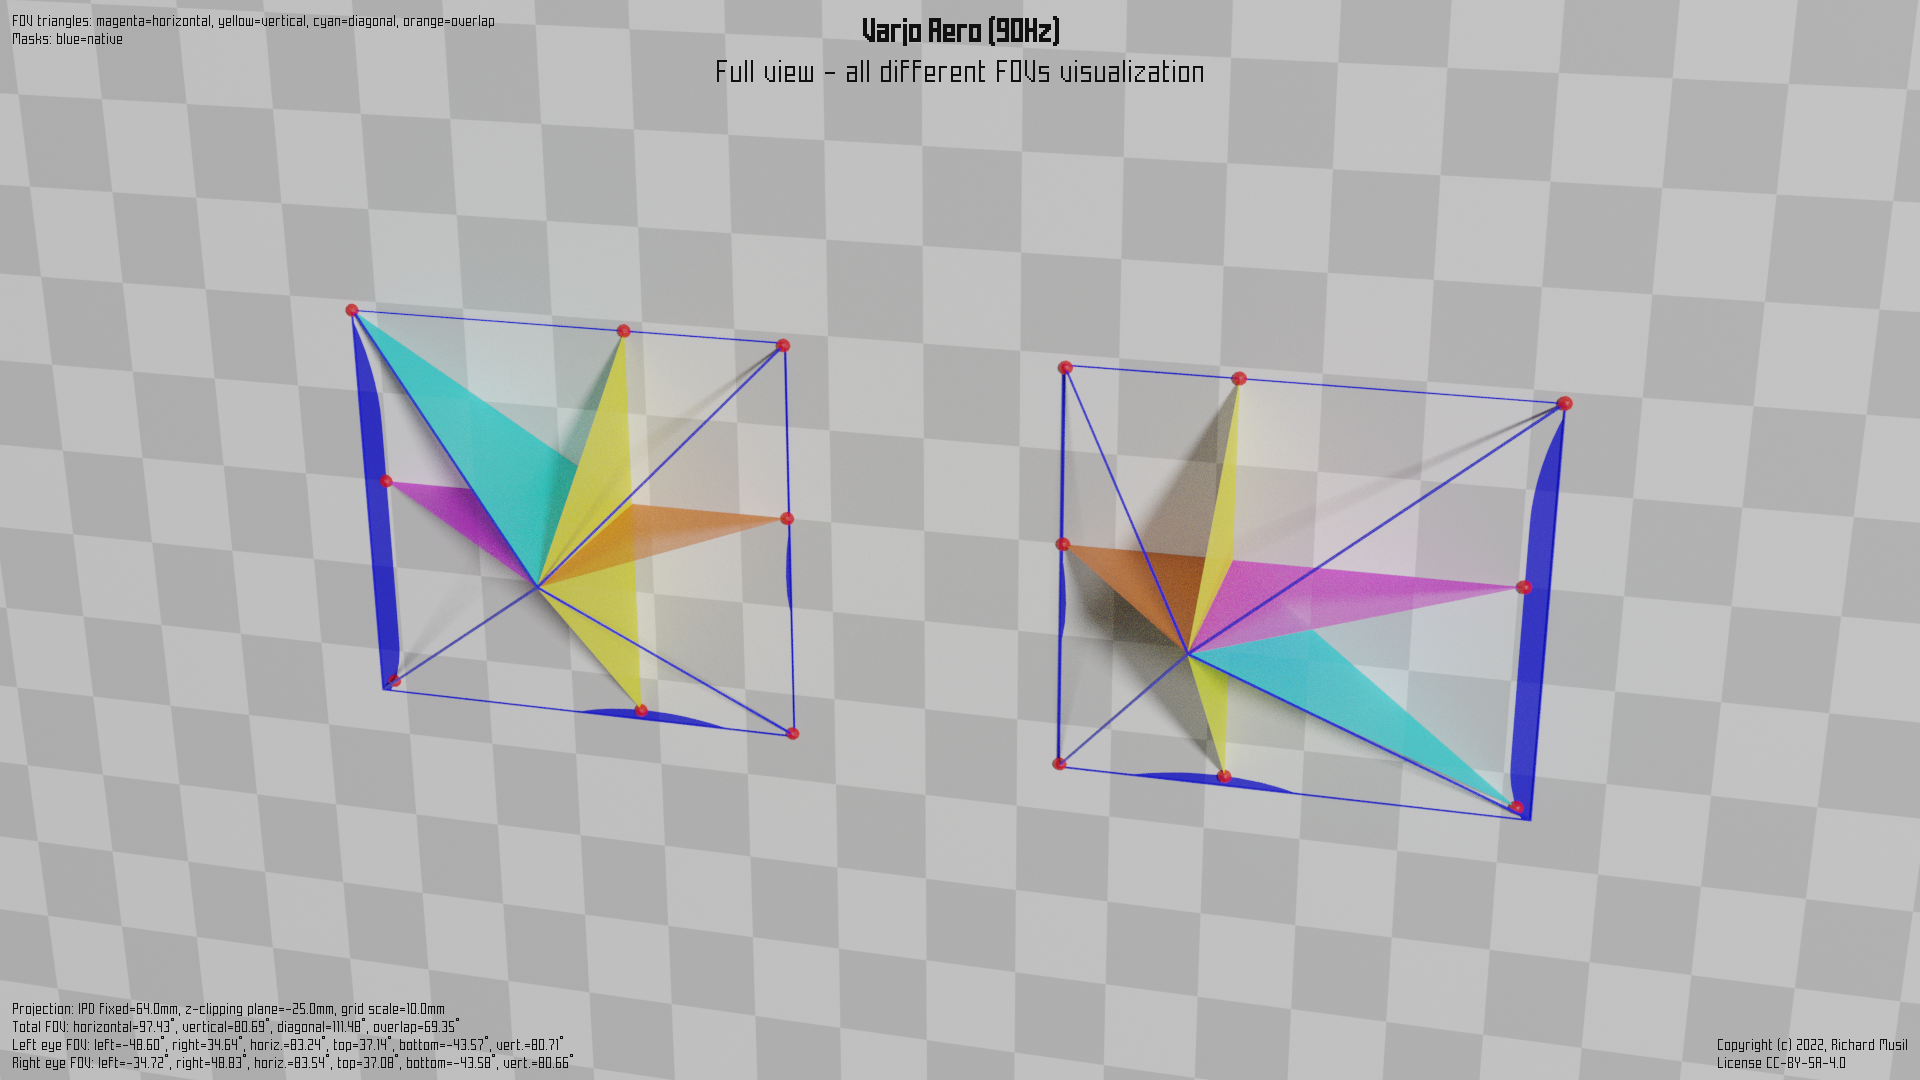
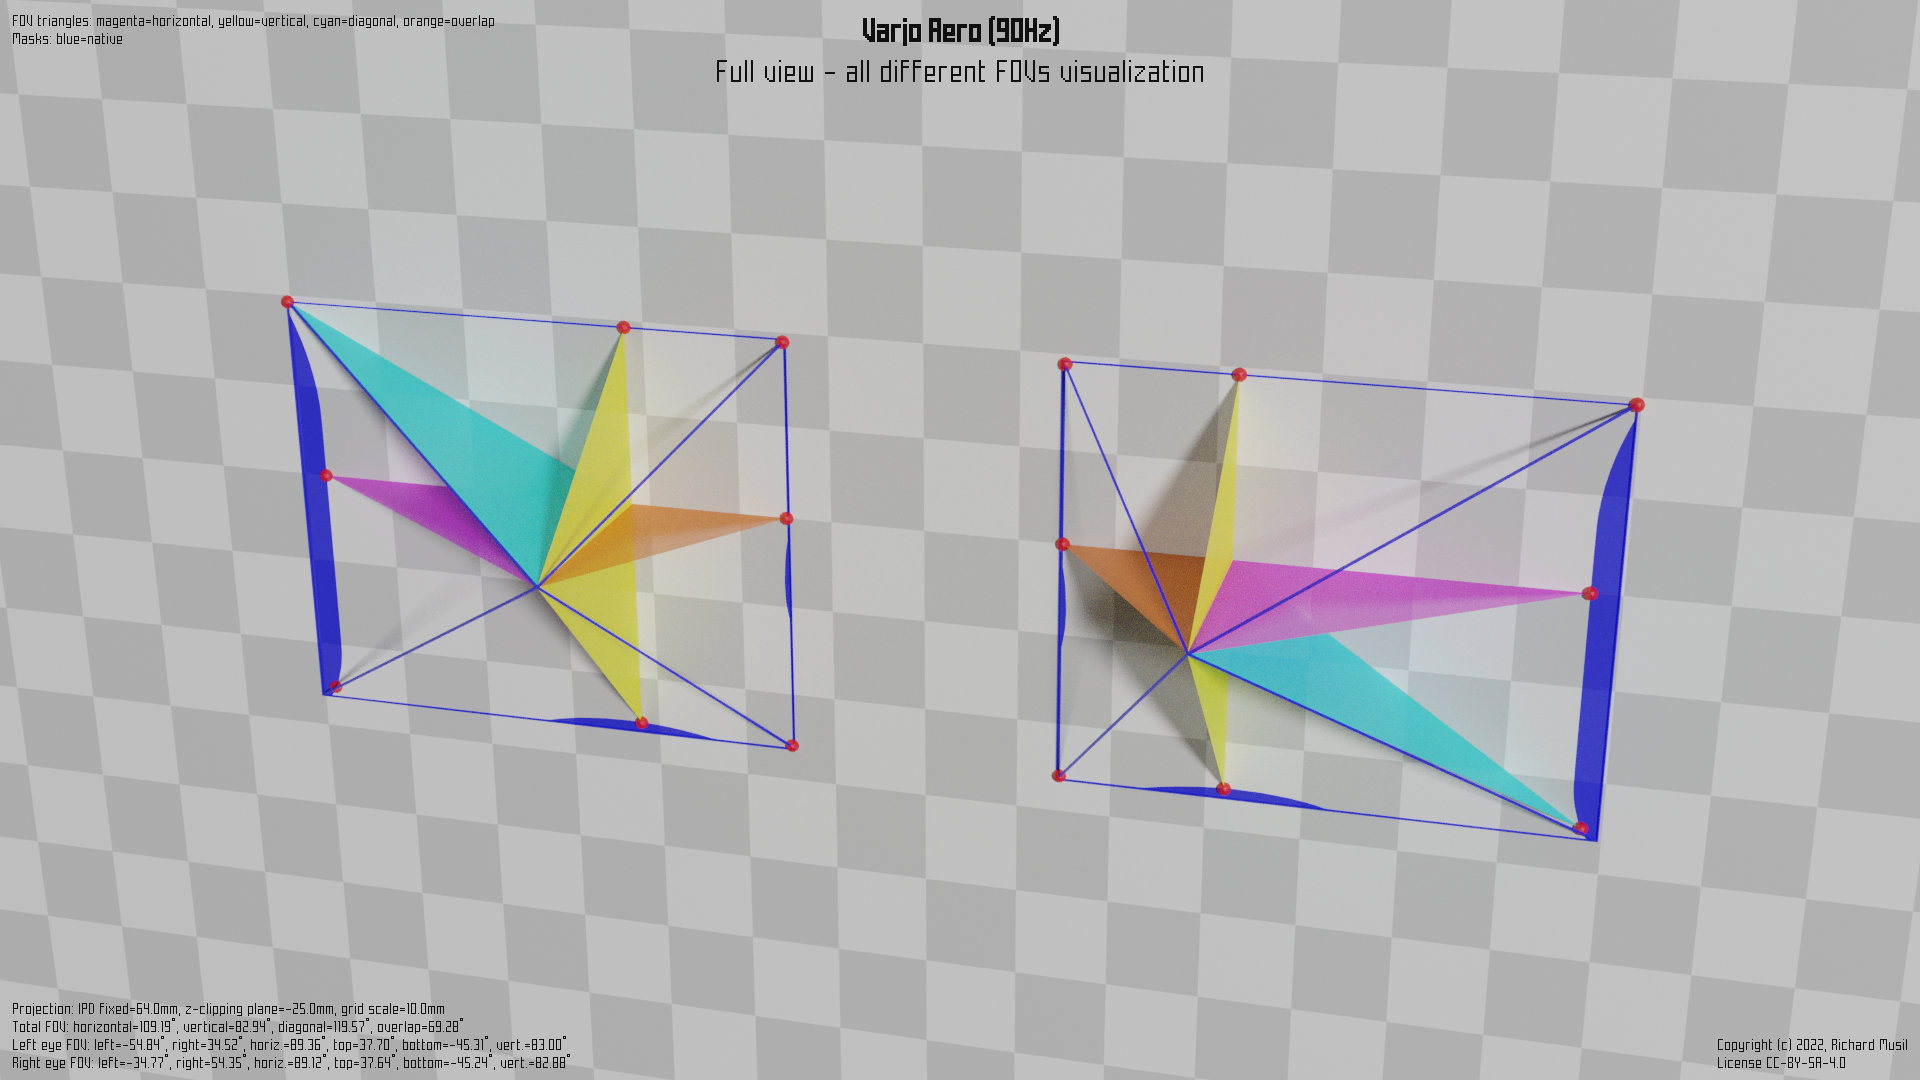
Updated Varjo Aero with a new geometry.

diff --git a/hmd_cfgs/VarjoAero_Native_R90.md b/hmd_cfgs/VarjoAero_Native_R90.md
@@ -1,6 +1,6 @@
 ---
 title: Varjo Aero (90Hz)
-date: 2022-01-25 17:14:50
+date: 2022-04-03 14:53:37
 ---
 # Varjo Aero (90Hz)
 
@@ -10,16 +10,16 @@ as recorded and displayed by [`hmdq` or `hmdv`](https://github.com/risa2000/hmdq
 ```
 hmdv version 2.1.1 - displaying hmdq output data in no time
 
-    Time stamp: 2022-01-25 17:14:50
+    Time stamp: 2022-04-03 14:53:37
   hmdq version: 2.1.1
 Output version: 5
-    OS version: 10.0.19041.1466
+    OS version: 10.0.19041.1586
 
 ... Subsystem: OpenVR ...
 
-OpenVR runtime version: 1.20.4
+OpenVR runtime version: 1.21.12
 
-Recommended render target size: [3232, 2772]
+Recommended render target size: [4468, 3828]
 
 Left eye HAM mesh:
      original vertices: 522, triangles: 174
@@ -27,23 +27,23 @@ Left eye HAM mesh:
              mesh area: 5.83 %
 
 Left eye to head transformation matrix:
-    [[ 1.      ,  0.      ,  0.      , -0.034057],
+    [[ 1.      ,  0.      ,  0.      , -0.0315  ],
      [ 0.      ,  1.      ,  0.      ,  0.      ],
      [ 0.      ,  0.      ,  1.      ,  0.      ]]
 
 Left eye raw LRBT values:
-    left:        -1.232594
-    right:        0.701739
-    bottom:      -0.994570
-    top:          0.758960
+    left:        -1.533223
+    right:        0.700223
+    bottom:      -1.055011
+    top:          0.774363
 
 Left eye head FOV:
-    left:       -48.60 deg
-    right:       34.64 deg
-    bottom:     -43.57 deg
-    top:         37.14 deg
-    horiz.:      83.24 deg
-    vert.:       80.71 deg
+    left:       -54.84 deg
+    right:       34.52 deg
+    bottom:     -45.31 deg
+    top:         37.70 deg
+    horiz.:      89.36 deg
+    vert.:       83.00 deg
 
 Right eye HAM mesh:
      original vertices: 522, triangles: 174
@@ -51,34 +51,34 @@ Right eye HAM mesh:
              mesh area: 5.83 %
 
 Right eye to head transformation matrix:
-    [[ 1.      ,  0.      ,  0.      ,  0.034057],
+    [[ 1.      ,  0.      ,  0.      ,  0.0315  ],
      [ 0.      ,  1.      ,  0.      ,  0.      ],
      [ 0.      ,  0.      ,  1.      ,  0.      ]]
 
 Right eye raw LRBT values:
-    left:        -0.703773
-    right:        1.242206
-    bottom:      -0.994660
-    top:          0.757347
+    left:        -0.706611
+    right:        1.506615
+    bottom:      -1.052922
+    top:          0.772924
 
 Right eye head FOV:
-    left:       -34.72 deg
-    right:       48.83 deg
-    bottom:     -43.58 deg
-    top:         37.08 deg
-    horiz.:      83.54 deg
-    vert.:       80.66 deg
+    left:       -34.77 deg
+    right:       54.35 deg
+    bottom:     -45.24 deg
+    top:         37.64 deg
+    horiz.:      89.12 deg
+    vert.:       82.88 deg
 
 Total FOV:
-    horizontal:  97.43 deg
-    vertical:    80.69 deg
-    diagonal:   111.48 deg
-    overlap:     69.35 deg
+    horizontal: 109.19 deg
+    vertical:    82.94 deg
+    diagonal:   119.57 deg
+    overlap:     69.28 deg
 
 View geometry:
     left view rotation:     0.0 deg
     right view rotation:    0.0 deg
-    reported IPD:          68.1 mm
+    reported IPD:          63.0 mm
 
 
 ```

diff --git a/hmd_table.md b/hmd_table.md
@@ -1,6 +1,6 @@
 ---
 title: HMD Geometry Database
-date: 2022-03-31 22:05:23
+date: 2022-04-03 18:29:22
 permalink: /
 ---
 # HMD Geometry Database
@@ -88,7 +88,7 @@ StarVR One | [Compatible+Native+R90](hmd_cfgs/StarVROne_Compatible_Native_R90.md
 StarVR One | [Normal+Native+R90](hmd_cfgs/StarVROne_Normal_Native_R90.md) | [177.55°](images/StarVROne_Normal_Native_R90_top.dmx.png) | [117.45°](images/StarVROne_Normal_Native_R90_left.dmx.png) | [176.68°](images/StarVROne_Normal_Native_R90_over.dmx.png) | [80.65°](images/StarVROne_Normal_Native_R90_top.dmx.png) | [28.19%](images/StarVROne_Normal_Native_R90_back.dmx.png) | -24.2° | 24.2°
 Valve Index | [Native+R144](hmd_cfgs/Index_Native_R144.md) | [108.06°](images/Index_Native_R144_top.dmx.png) | [109.16°](images/Index_Native_R144_left.dmx.png) | [114.43°](images/Index_Native_R144_over.dmx.png) | [85.93°](images/Index_Native_R144_top.dmx.png) | [24.88%](images/Index_Native_R144_back.dmx.png) | -5.0° | 5.0°
 Valve Index | [PP+R144](hmd_cfgs/Index_PP_R144.md) | [109.26°](images/Index_PP_R144_top.dmx.png) | ([108.47°](images/Index_PP_R144_left.dmx.png)) | [114.19°](images/Index_PP_R144_over.dmx.png) | [84.13°](images/Index_PP_R144_top.dmx.png) | [24.88%](images/Index_PP_R144_back.dmx.png) |  | 
-Varjo Aero | [Native+R90](hmd_cfgs/VarjoAero_Native_R90.md) | [97.43°](images/VarjoAero_Native_R90_top.dmx.png) | [80.69°](images/VarjoAero_Native_R90_left.dmx.png) | [111.48°](images/VarjoAero_Native_R90_over.dmx.png) | [69.35°](images/VarjoAero_Native_R90_top.dmx.png) | [5.83%](images/VarjoAero_Native_R90_back.dmx.png) |  | 
+Varjo Aero | [Native+R90](hmd_cfgs/VarjoAero_Native_R90.md) | [109.19°](images/VarjoAero_Native_R90_top.dmx.png) | [82.94°](images/VarjoAero_Native_R90_left.dmx.png) | [119.57°](images/VarjoAero_Native_R90_over.dmx.png) | [69.28°](images/VarjoAero_Native_R90_top.dmx.png) | [5.83%](images/VarjoAero_Native_R90_back.dmx.png) |  | 
 
 
 ---
@@ -135,5 +135,5 @@ panels are (most likely) coplanar and parallel to the face.
 
 ---
 
-The latest headset data recorded: 2022-01-25 17:14:50  
-The table was generated: 2022-03-31 22:05:23
+The latest headset data recorded: 2022-04-03 14:53:37  
+The table was generated: 2022-04-03 18:29:22

diff --git a/changelog.md b/changelog.md
@@ -4,6 +4,9 @@ title: Changelog
 
 # HMD Geometry Database Changelog
 
+*April 3, 2022*
+* Varjo Aero (updated)
+
 *March 31, 2022*
 * Rerendered the visualization images with wrong camera setup.
 
